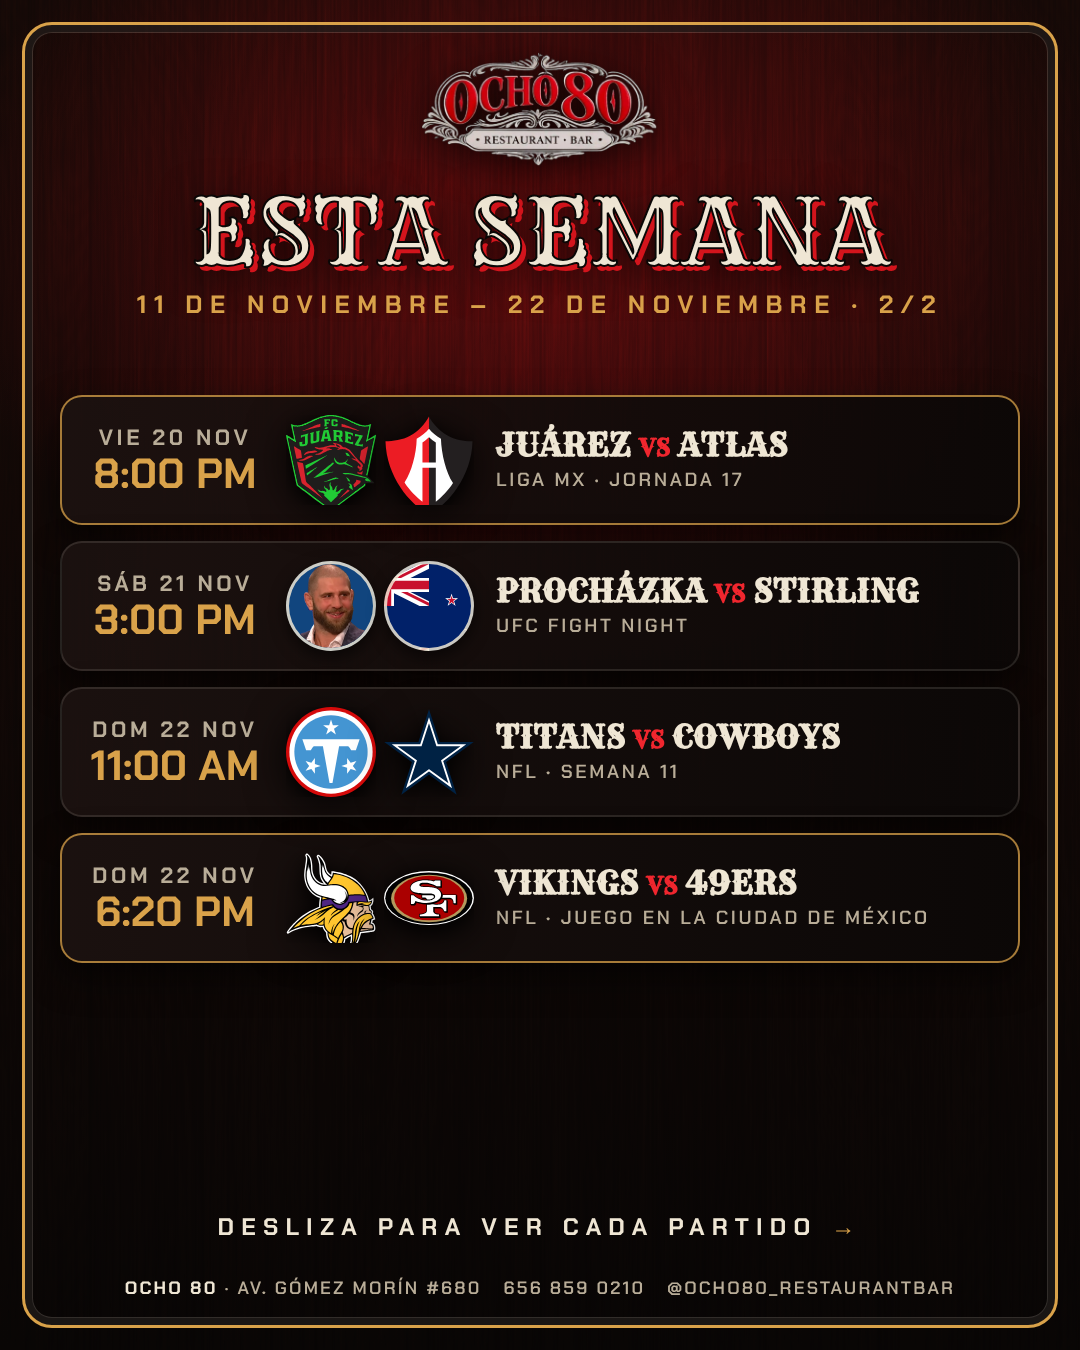
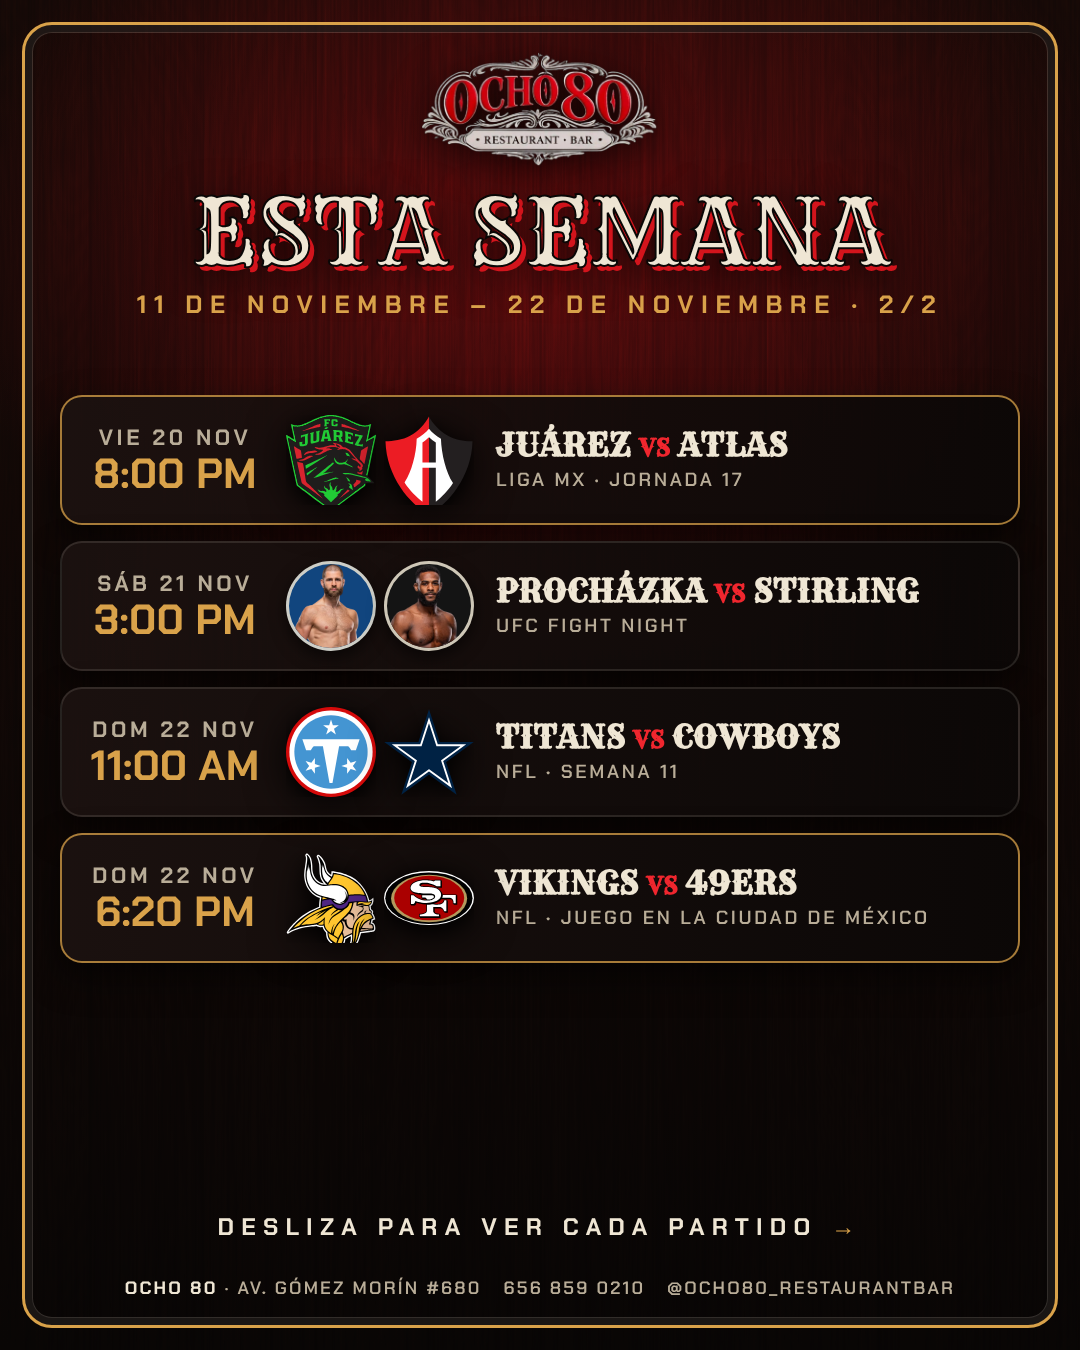
Use provided official photos for Stirling and Procházka; cutout.py keeps transparent renders as is
Claude-Session: https://claude.ai/code/session_01TWvdkjVjQiz8FCpgTmoDNT

Changed region(s): [[0.275, 0.4044, 0.4583, 0.4978]]

diff --git a/scripts/cutout.py b/scripts/cutout.py
@@ -40,10 +40,14 @@ for slug, p in people.items():
     if not src:
         print(f"- {slug}: no photo")
         continue
-    session = session or new_session("u2net_human_seg")
-    img = Image.open(src).convert("RGB")
-    img.thumbnail((1400, 1400))
-    cut = remove(img, session=session, post_process_mask=True)
+    raw = Image.open(src)
+    if raw.mode == "RGBA" and raw.getchannel("A").getextrema()[0] < 10:
+        cut = raw  # already a transparent cutout (e.g. an official athlete render): keep it as is
+    else:
+        session = session or new_session("u2net_human_seg")
+        img = raw.convert("RGB")
+        img.thumbnail((1400, 1400))
+        cut = remove(img, session=session, post_process_mask=True)
     cut = keep_largest(cut)
     bbox = cut.getbbox()
     if bbox:
